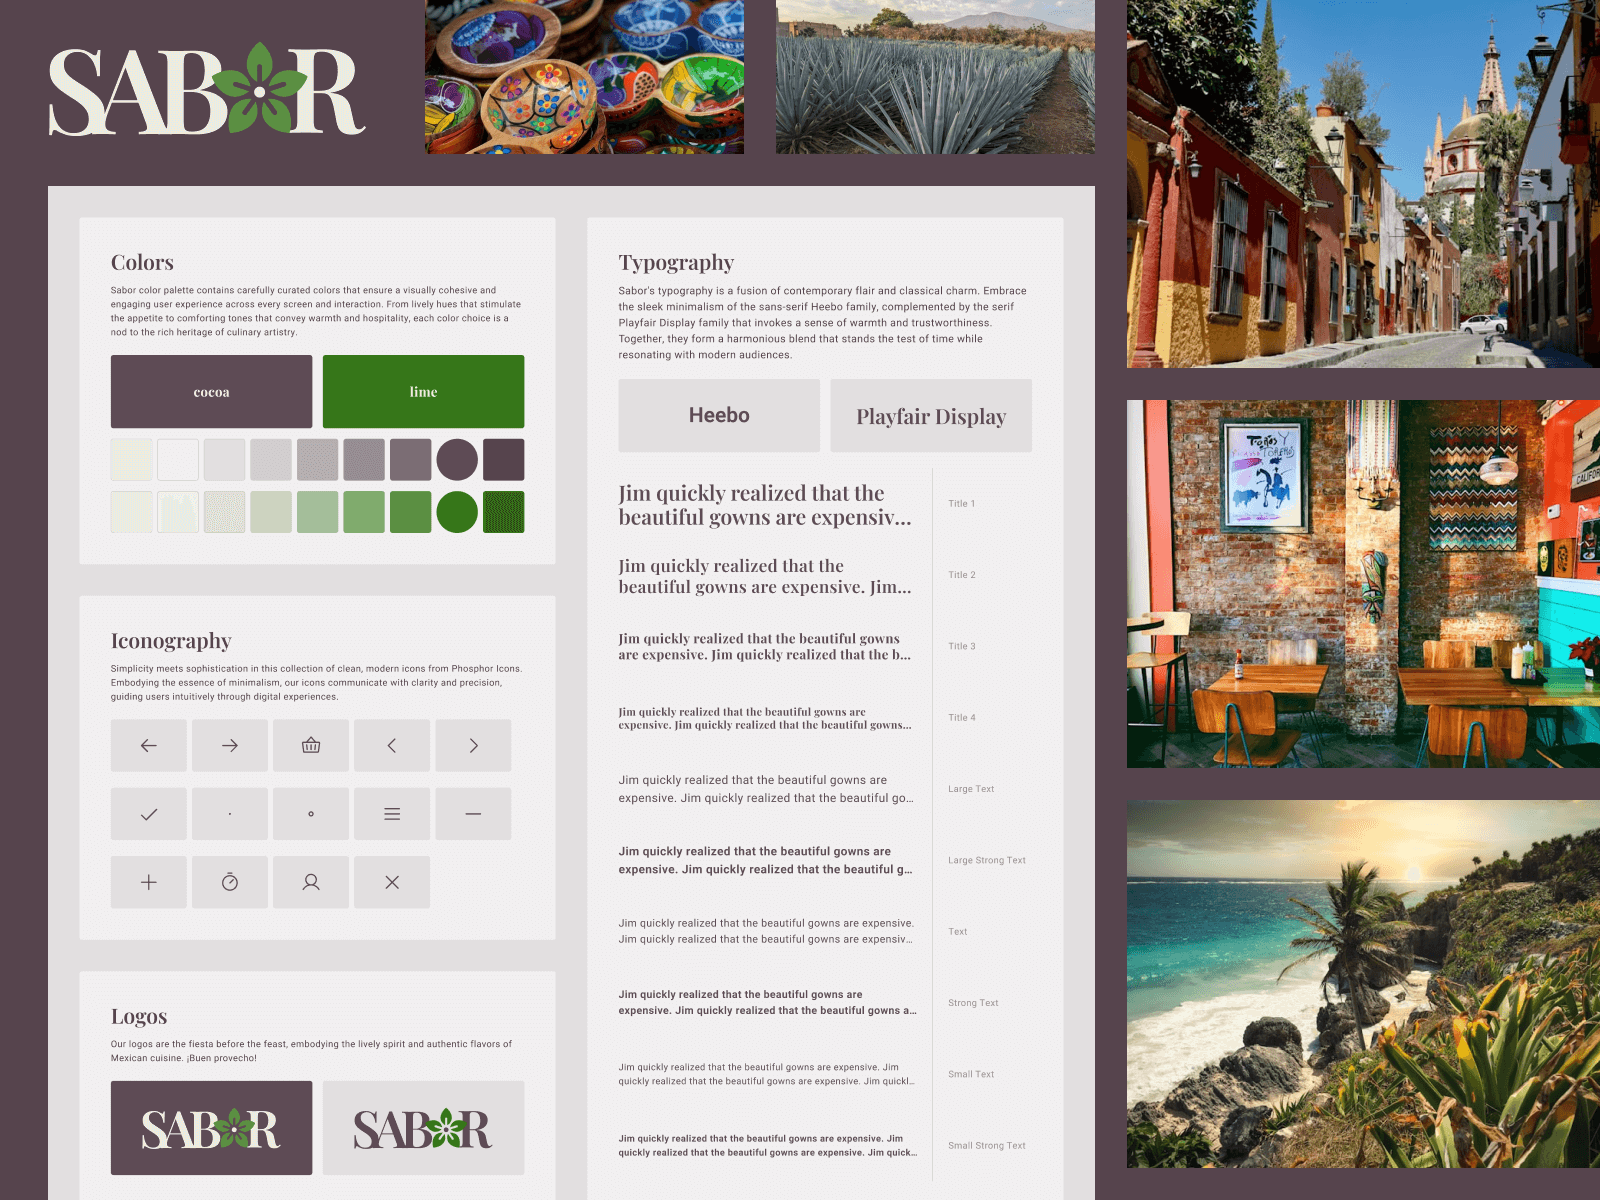
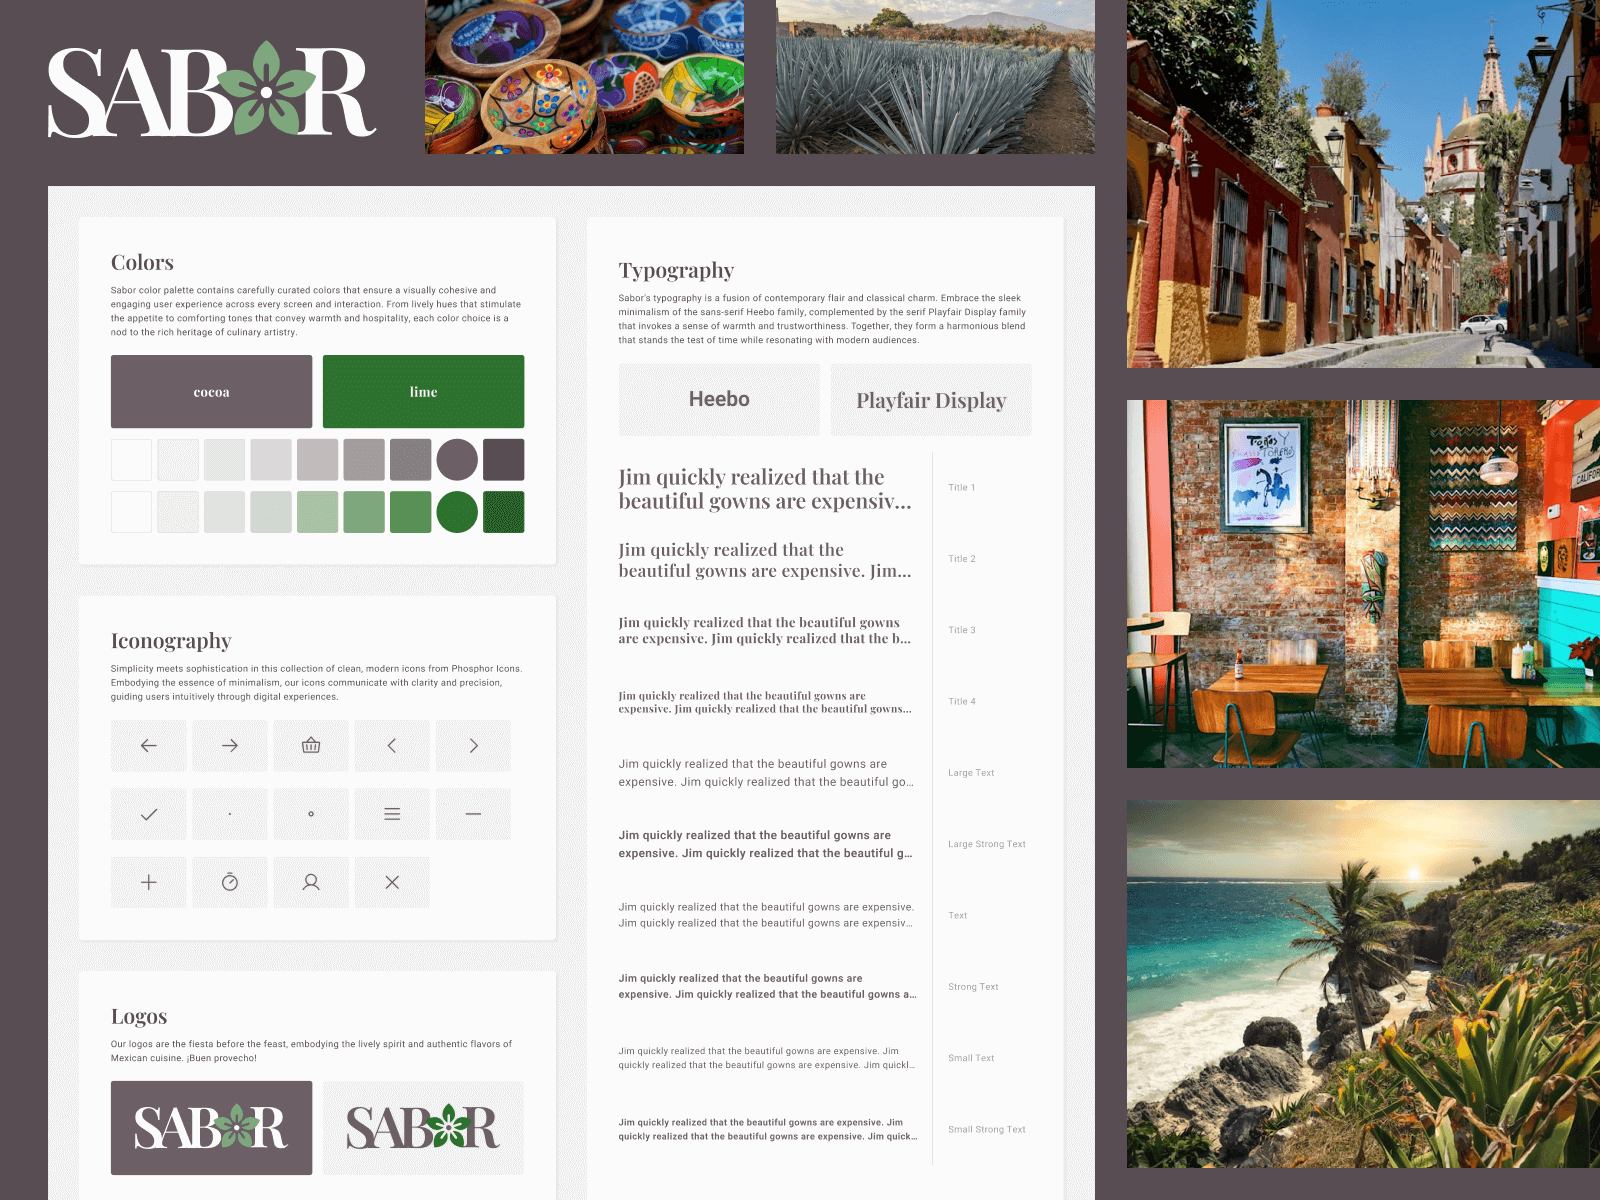
images, spacing

diff --git a/src/assets/styles/base/colors.scss b/src/assets/styles/base/colors.scss
@@ -3,7 +3,7 @@
 */
 
 @function contrast($color) {
-  @if (lightness($color) < 60) {
+  @if (lightness($color) < 64) {
     @return color(foreground, light);
   }
 
@@ -22,8 +22,8 @@
   main colors and primitive color tokens (map)
 */
 
-$color-cocoa: #5e4b55;
-$color-lime: #387819;
+$color-cocoa: #6d5e66;
+$color-lime: #2f732f;
 
 $colors: (
   main: (
@@ -32,25 +32,25 @@ $colors: (
   ),
 
   cocoa: (
-    100: tint($color-cocoa, 99%),
-    200: tint($color-cocoa, 91%),
-    300: tint($color-cocoa, 82%),
-    400: tint($color-cocoa, 72%),
-    500: tint($color-cocoa, 54%),
-    600: tint($color-cocoa, 36%),
-    700: tint($color-cocoa, 18%),
+    100: tint($color-cocoa, 99.5%),
+    200: tint($color-cocoa, 92%),
+    300: tint($color-cocoa, 84%),
+    400: tint($color-cocoa, 76%),
+    500: tint($color-cocoa, 57%),
+    600: tint($color-cocoa, 38%),
+    700: tint($color-cocoa, 19%),
     800: $color-cocoa,
-    900: shade($color-cocoa, 9%),
+    900: shade($color-cocoa, 18%),
   ),
 
   lime: (
-    100: tint($color-lime, 99%),
-    200: tint($color-lime, 91%),
-    300: tint($color-lime, 82%),
-    400: tint($color-lime, 72%),
-    500: tint($color-lime, 54%),
-    600: tint($color-lime, 36%),
-    700: tint($color-lime, 18%),
+    100: tint($color-lime, 99.5%),
+    200: tint($color-lime, 92%),
+    300: tint($color-lime, 84%),
+    400: tint($color-lime, 76%),
+    500: tint($color-lime, 57%),
+    600: tint($color-lime, 38%),
+    700: tint($color-lime, 19%),
     800: $color-lime,
     900: shade($color-lime, 18%),
   ),

diff --git a/src/assets/styles/pages/colors.scss b/src/assets/styles/pages/colors.scss
@@ -57,7 +57,7 @@
   display: flex;
   flex-direction: row;
   flex-wrap: wrap;
-  gap: .75rem;
+  gap: .5rem;
 }
 
 @include respond-to(small) {

diff --git a/src/assets/styles/pages/typography.scss b/src/assets/styles/pages/typography.scss
@@ -32,7 +32,7 @@
   display: flex;
   flex-direction: row;
   flex-wrap: wrap;
-  gap: .75rem;
+  gap: .5rem;
 }
 
 .table.fonts {

diff --git a/src/assets/styles/pages/iconography.scss b/src/assets/styles/pages/iconography.scss
@@ -23,5 +23,5 @@
   display: flex;
   flex-direction: row;
   flex-wrap: wrap;
-  gap: .75rem;
+  gap: .5rem;
 }

diff --git a/src/assets/styles/pages/logos.scss b/src/assets/styles/pages/logos.scss
@@ -31,5 +31,5 @@
   display: flex;
   flex-direction: row;
   flex-wrap: wrap;
-  gap: .75rem;
+  gap: .5rem;
 }
